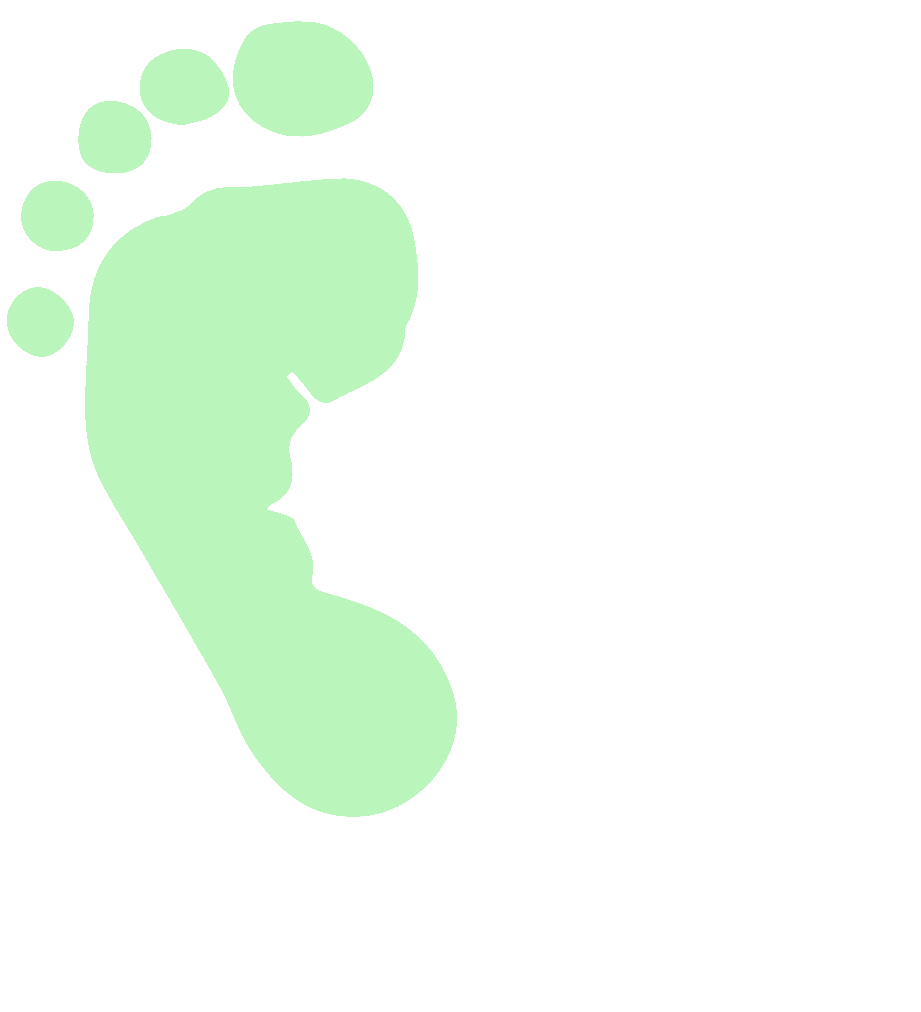
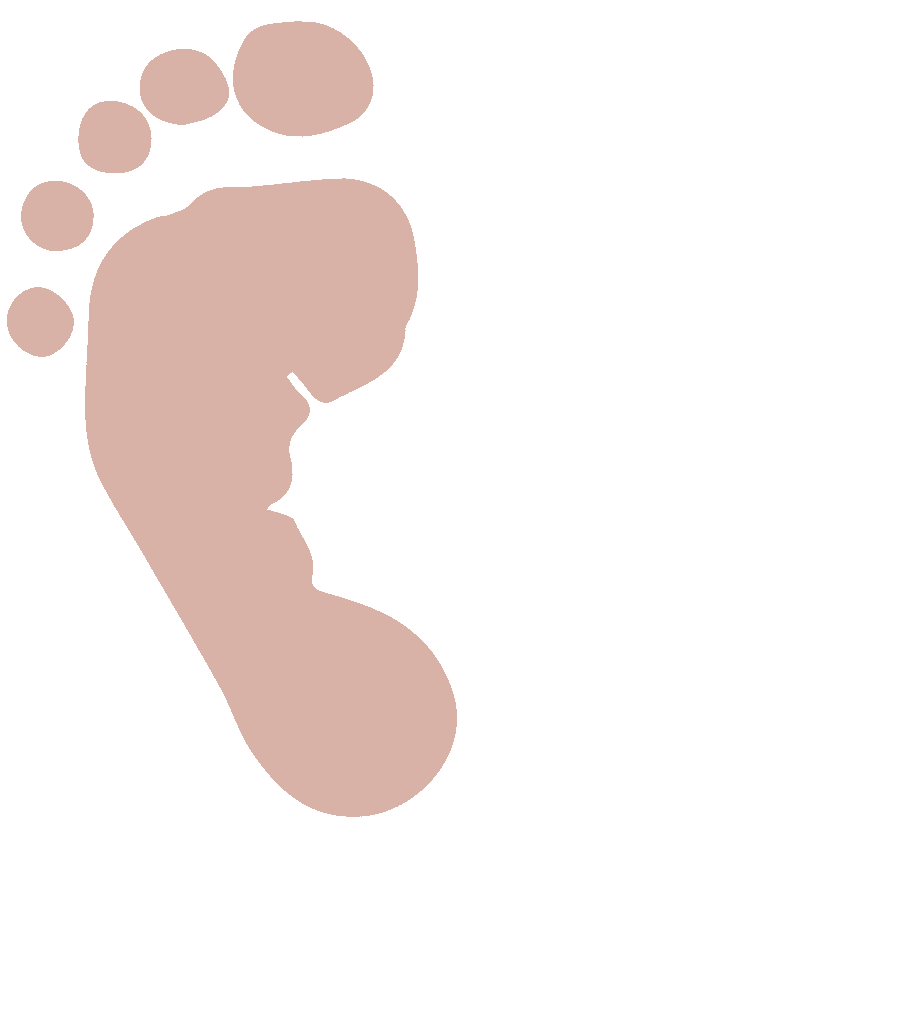
image changed

Changed region(s): [[0.0, 0.0, 0.5168, 0.8271]]

diff --git a/src/styles.css b/src/styles.css
@@ -1,18 +1,19 @@
 :root {
-  --g-ll: #c6f8c7;
-  --g-l: #baf5bb;
+  --g-ll: #E1C3BC;
+  --g-l: #D9B2A7;
   --g-2: #acefad;
   --g: #8ad797;
   --max-w: 90rem;
   --header: 6rem;
   --btn-h: 5rem;
-}
 
-@font-face {
-  font-family: stinger;
-  src: url(assets/Stinger-Bold.woff);
+  --text: #200952;
+  --button: #200952;
+  --footer1: #375d38;
+  --footer2: #274829;
+  --footer-l: #3d703f;
+  --footer-icon: #7d997e;
 }
-
 @font-face {
   font-family: art;
   src: url("assets/fonts/Ramona-Bold.ttf") format("truetype");
@@ -61,11 +62,12 @@ body {
   scroll-snap-type: y mandatory;
   font-size: 1.3rem;
   font-weight: 400;
-  color: #200952;
+  color: var(--text);
 }
 
 .t-b {
   font-size: 1.6rem;
+  font-weight: 500;
 }
 
 .a-c {
@@ -251,15 +253,15 @@ h3 {
 
 @keyframes wave {
   0% {
-    transform: translate(0,17%);
+    transform: translate(0,27%) scaleY(.9);
   }
   100% {
-    transform: translate(-40%,17%);
+    transform: translate(-40%,27%) scaleY(.9);
   }
 }
 
 .wave {
-  width: 350vw;
+  width: 280vw;
   min-width: 200rem;
   position: absolute;
   bottom: 0;
@@ -270,6 +272,7 @@ h3 {
 .welcome {
   display: flex;
   justify-content: space-between;
+  align-items: center;
   flex-wrap: wrap;
 }
 
@@ -280,7 +283,7 @@ h3 {
 .baby-wrapper {
   margin-top: 8rem;
   max-width: 100%;
-  height: 35rem; width: 35rem;
+  height: 47rem; width: 35rem;
   position: relative;
 }
 .baby-wrapper svg {
@@ -292,11 +295,12 @@ h3 {
 .baby {
   position: relative;
   height: 100%; width: 100%;
-  background-image: url(assets/babypng.png);
-  background-size: contain;
-  background-position: center;
+
+  background-image: url(assets/child/2.png);
+  background-size: cover;
+  background-position: top center;
   background-repeat: no-repeat;
-  z-index: 2;
+  z-index: 1;
 }
 
 .action-btn {
@@ -307,7 +311,7 @@ h3 {
   cursor: pointer;
   display: flex;
   align-items: center;
-  background: #200952;
+  background: var(--button);
   color: #fff;
   text-align: center;
 }
@@ -345,16 +349,16 @@ h3 {
 
 .t1 {
   bottom: 90%;
-  right: 80%;
-  width: 6.7rem;
-  height: 6.7rem;
+  right: 61%;
+  width: 7rem;
+  height: 7rem;
   background-image: url(assets/label_car.png);
   animation: label1 3.5s infinite ease-in-out;
 }
 
 .t2 {
-  bottom: 75%;
-  left: 55%;
+  bottom: 80%;
+  left: 73%;
   width: 6rem;
   height: 6rem;
   background-image: url(assets/label_milk.png);
@@ -603,7 +607,7 @@ h3 {
 
 
 footer {
-  background-color: #375d38;
+  background-color: var(--footer1);
   color: #fff;
 }
 
@@ -615,7 +619,7 @@ footer {
 }
 
 .footer2 {
-  background-color: #274829;
+  background-color: var(--footer2);
   color: #eeffee99;
   padding: 1rem 0;
   font-size: 1rem;
@@ -638,7 +642,7 @@ footer {
   white-space: nowrap;
 }
 .f-block svg {
-  color: #7d997e;
+  color: var(--footer-icon);
   width: 1.4rem;
   height: 1.4rem;
   margin-right: .6rem;
@@ -651,7 +655,7 @@ footer {
   height: 25rem;
   margin-top: 2.5rem;
   border-radius: .5rem;
-  background-color: #274829;
+  background-color: var(--footer-l);
 }
 .map a {
   visibility: hidden;
@@ -758,14 +762,14 @@ footer h3 {
 
   header.end {
     /*backdrop-filter: blur(0px);*/
-    background-color: #375d38;
+    background-color: var(--footer1);
     box-shadow: none;
   }
   .end #logo-t {
     color: #fff;
   }
   .end .header-item {
-    background: #3d703f;
+    background: var(--footer-l);
     color: #fff;
   }
 }

diff --git a/src/app/app.component.html b/src/app/app.component.html
@@ -17,18 +17,11 @@
 <header *ngIf="!isMobile" [ngClass]="{visible: isHeaderVisible, end: touchedFooter}"></header>
 
 <section class="s0">
-  <div class="header content-w">
-    <div class="content">
-      <img class="icon-main" src="/assets/logo.svg" alt="logo">
-    </div>
-  </div>
-
   <div id="back0" class="back">
     <img src="assets/wave.svg" class="wave" alt="">
   </div>
   <div class="content-w">
     <div class="content">
-      <div class="header"></div>
       <div class="welcome">
         <div class="welcome_left">
           <h1 class="h">Центр современной<br>педиатрии</h1>

diff --git a/src/app/app.component.ts b/src/app/app.component.ts
@@ -263,7 +263,7 @@ export class AppComponent implements OnInit, AfterViewInit {
     const baby = document.getElementById("baby")!;
     if (innerWidth <= 650) {
       const size = innerWidth - remToPX(4);
-      baby.style.cssText = `width: ${size}px;height:${size}px`
+      baby.style.cssText = `width: ${size}px;height:${size * 1.3}px`
     }
   }
 
